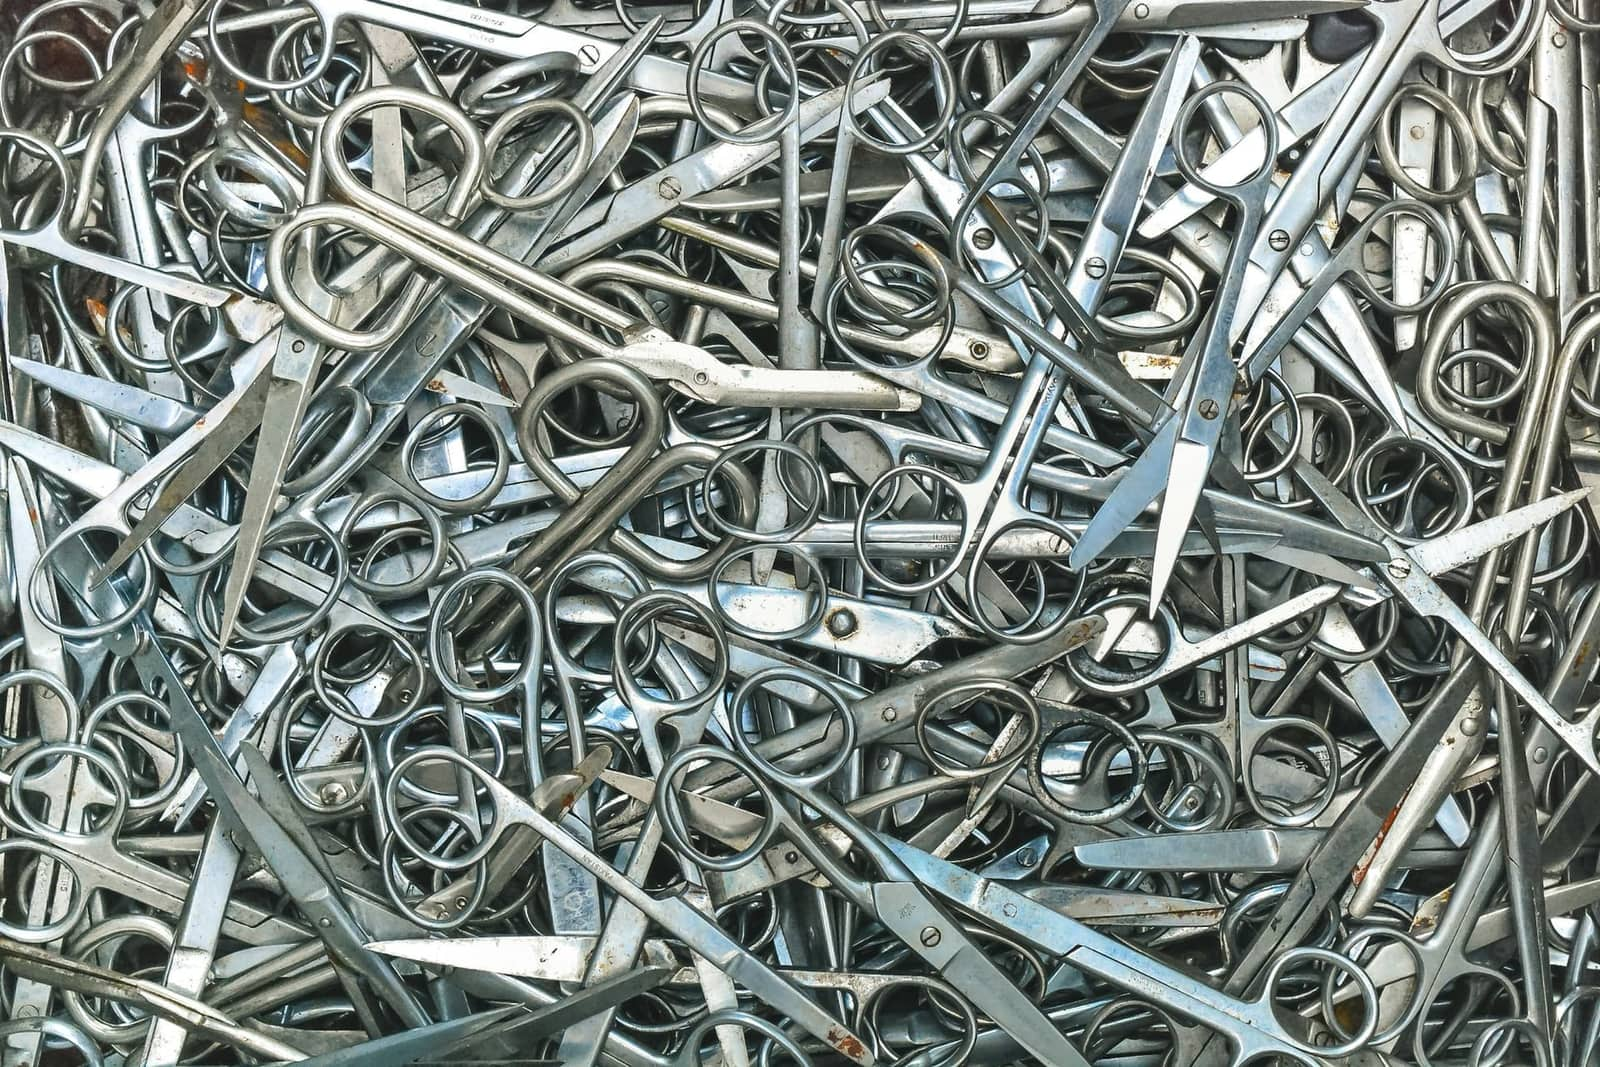
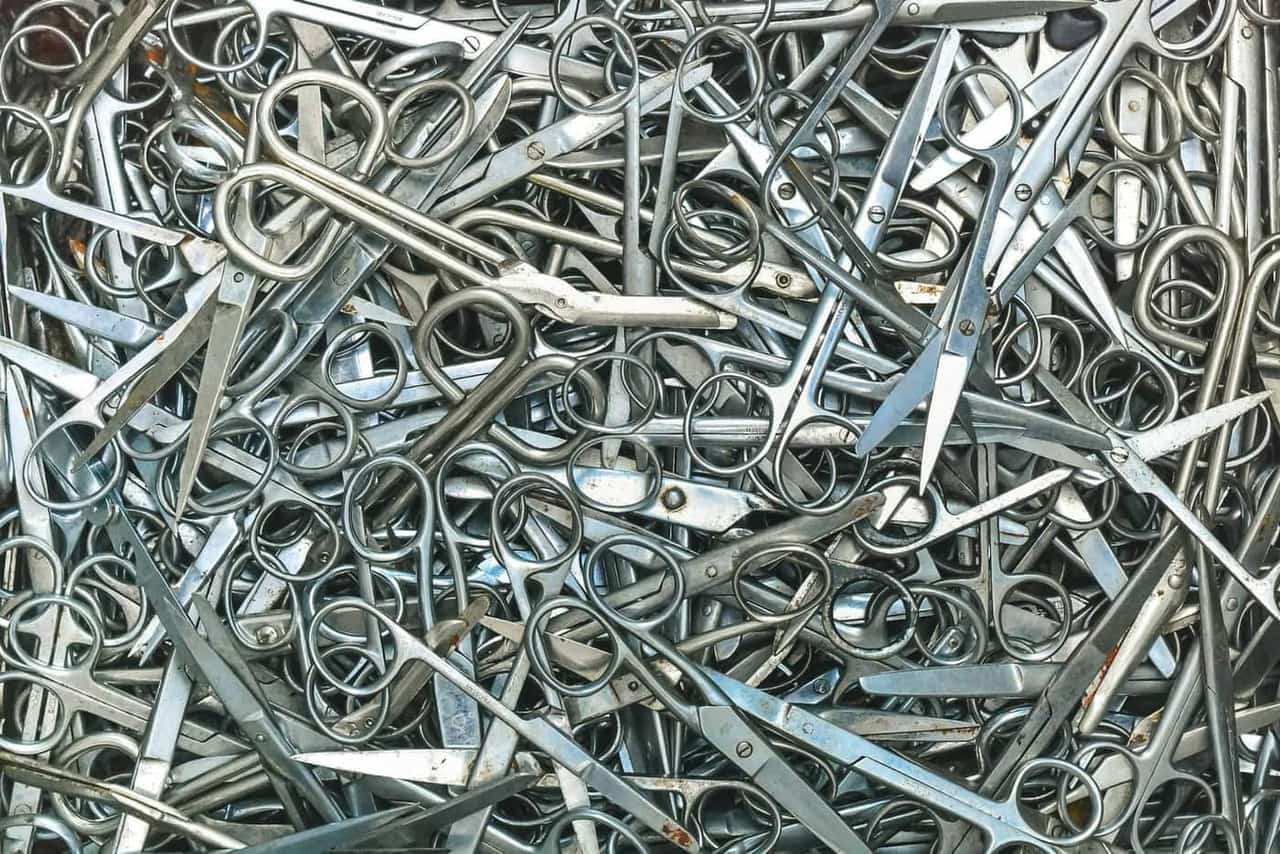
Optimize homepage for Speed Insights CLS and LCP.
Remove hero entrance animations and Ken Burns, compress the hero image, and reserve layout space for category cards.

Changed region(s): [[0.5938, 0.0, 0.625, 0.0304]]

diff --git a/src/app/(public)/page.tsx b/src/app/(public)/page.tsx
@@ -49,32 +49,33 @@ export default async function HomePage() {
           isPartOf: { "@type": "WebSite", name: SITE_NAME },
         }}
       />
-      {/* Hero Banner */}
-      <section className="relative min-h-[88vh] overflow-hidden text-white">
+      {/* Hero Banner — no entrance motion (CLS/LCP critical) */}
+      <section className="relative isolate min-h-[70vh] overflow-hidden text-white sm:min-h-[80vh] lg:min-h-[88vh]">
         <Image
           src={HERO_BACKGROUND_IMAGE}
           alt="Precision stainless steel surgical instruments"
           fill
           priority
-          quality={75}
-          className="animate-hero-ken object-cover object-center"
+          fetchPriority="high"
+          quality={60}
+          className="object-cover object-center"
           sizes="100vw"
         />
         <div className="absolute inset-0 bg-gradient-to-r from-steel/92 via-steel/75 to-steel/45" />
         <div className="absolute inset-0 bg-gradient-to-t from-steel/70 via-transparent to-steel/30" />
-        <div className="relative mx-auto flex min-h-[88vh] max-w-7xl flex-col justify-center px-4 py-24 sm:px-6 lg:px-8">
-          <p className="animate-fade-up font-display text-5xl font-semibold tracking-tight sm:text-6xl lg:text-7xl">
+        <div className="relative mx-auto flex min-h-[70vh] max-w-7xl flex-col justify-center px-4 py-24 sm:min-h-[80vh] sm:px-6 lg:min-h-[88vh] lg:px-8">
+          <p className="font-display text-5xl font-semibold tracking-tight sm:text-6xl lg:text-7xl">
             Nexvor Intl
           </p>
-          <div className="animate-draw-line delay-100 mt-4 h-1 w-24 bg-primary" />
-          <h1 className="animate-fade-up delay-200 mt-6 max-w-2xl font-display text-2xl font-medium leading-snug text-white/90 sm:text-3xl">
+          <div className="mt-4 h-1 w-24 bg-primary" />
+          <h1 className="mt-6 max-w-2xl font-display text-2xl font-medium leading-snug text-white/90 sm:text-3xl">
             Precision instruments for the modern OR
           </h1>
-          <p className="animate-fade-up delay-300 mt-4 max-w-xl text-base leading-relaxed text-white/70 sm:text-lg">
+          <p className="mt-4 max-w-xl text-base leading-relaxed text-white/70 sm:text-lg">
             German stainless steel surgical tools for hospitals, distributors,
             and OEM partners — engineered for reliability under sterilization.
           </p>
-          <div className="animate-fade-up delay-400 mt-10 flex flex-wrap gap-4">
+          <div className="mt-10 flex flex-wrap gap-4">
             <Button asChild size="lg" className="rounded-full bg-primary px-8 shadow-sm hover:bg-teal-deep">
               <Link href="/products">
                 Browse Catalog <ArrowRight className="h-4 w-4" />
@@ -84,7 +85,7 @@ export default async function HomePage() {
               asChild
               size="lg"
               variant="outline"
-              className="rounded-full border-white/40 bg-white/10 text-white backdrop-blur hover:bg-white/20 hover:text-white"
+              className="rounded-full border-white/40 bg-white/10 text-white hover:bg-white/20 hover:text-white"
             >
               <Link href="/contact">Request a Quote</Link>
             </Button>
@@ -116,16 +117,17 @@ export default async function HomePage() {
               <Link href="/about">Learn more about us</Link>
             </Button>
           </div>
-          <div className="relative min-h-[280px] overflow-hidden text-white">
+          <div className="relative min-h-[280px] overflow-hidden text-white sm:min-h-[320px]">
             <Image
               src={ABOUT_PANEL_IMAGE}
               alt="Stainless steel surgical scissors"
               fill
               className="object-cover"
               sizes="(max-width: 1024px) 100vw, 50vw"
+              quality={60}
             />
             <div className="absolute inset-0 bg-gradient-to-t from-steel/90 via-steel/45 to-transparent" />
-            <div className="relative flex h-full min-h-[280px] flex-col justify-end p-8">
+            <div className="relative flex h-full min-h-[280px] flex-col justify-end p-8 sm:min-h-[320px]">
               <p className="font-display text-2xl font-semibold">
                 Built for procurement teams
               </p>
@@ -179,7 +181,7 @@ export default async function HomePage() {
               fill
               className="object-cover object-center"
               sizes="(max-width: 1280px) 100vw, 1280px"
-              quality={75}
+              quality={55}
             />
             <div className="absolute inset-0 bg-gradient-to-r from-steel/90 via-steel/70 to-steel/40" />
             <div className="relative z-10 flex min-h-[320px] flex-col items-start justify-center px-6 py-12 sm:min-h-[380px] sm:px-10 lg:px-14">

diff --git a/src/app/(public)/loading.tsx b/src/app/(public)/loading.tsx
@@ -1,13 +1,11 @@
 export default function PublicLoading() {
   return (
-    <div className="mx-auto max-w-7xl px-4 py-16 sm:px-6 lg:px-8" aria-busy="true">
-      <div className="h-8 w-48 animate-pulse rounded bg-muted" />
-      <div className="mt-4 h-4 w-full max-w-xl animate-pulse rounded bg-muted" />
-      <div className="mt-10 grid gap-4 sm:grid-cols-2 lg:grid-cols-3">
-        {Array.from({ length: 6 }).map((_, i) => (
-          <div key={i} className="h-56 animate-pulse rounded-lg bg-muted" />
-        ))}
-      </div>
+    <div
+      className="mx-auto min-h-[50vh] max-w-7xl px-4 py-16 sm:px-6 lg:px-8"
+      aria-busy="true"
+    >
+      <div className="h-8 w-48 rounded bg-muted/80" />
+      <div className="mt-4 h-4 w-full max-w-xl rounded bg-muted/60" />
       <span className="sr-only">Loading page…</span>
     </div>
   );

diff --git a/src/components/products/category-card.tsx b/src/components/products/category-card.tsx
@@ -20,18 +20,19 @@ export function CategoryCard({ category }: Props) {
   return (
     <Link
       href={`/categories/${category.slug}`}
-      className="group relative block min-h-[240px] overflow-hidden text-white"
+      className="group relative block aspect-[4/3] min-h-[220px] overflow-hidden text-white"
     >
       <Image
         src={imageSrc}
         alt={`${category.name} surgical instruments`}
         fill
-        className="object-cover transition duration-700 ease-out group-hover:scale-105"
+        className="object-cover transition duration-500 ease-out group-hover:scale-[1.03]"
         sizes="(max-width: 640px) 100vw, (max-width: 1024px) 50vw, 33vw"
         loading="lazy"
+        quality={65}
       />
       <div className="absolute inset-0 bg-gradient-to-t from-steel/95 via-steel/55 to-steel/20 transition duration-500 group-hover:from-steel/90 group-hover:via-steel/45" />
-      <div className="relative z-10 flex h-full min-h-[240px] flex-col justify-end p-6">
+      <div className="relative z-10 flex h-full min-h-[220px] flex-col justify-end p-6">
         <h3 className="font-display text-2xl font-semibold tracking-tight">
           {category.name}
         </h3>